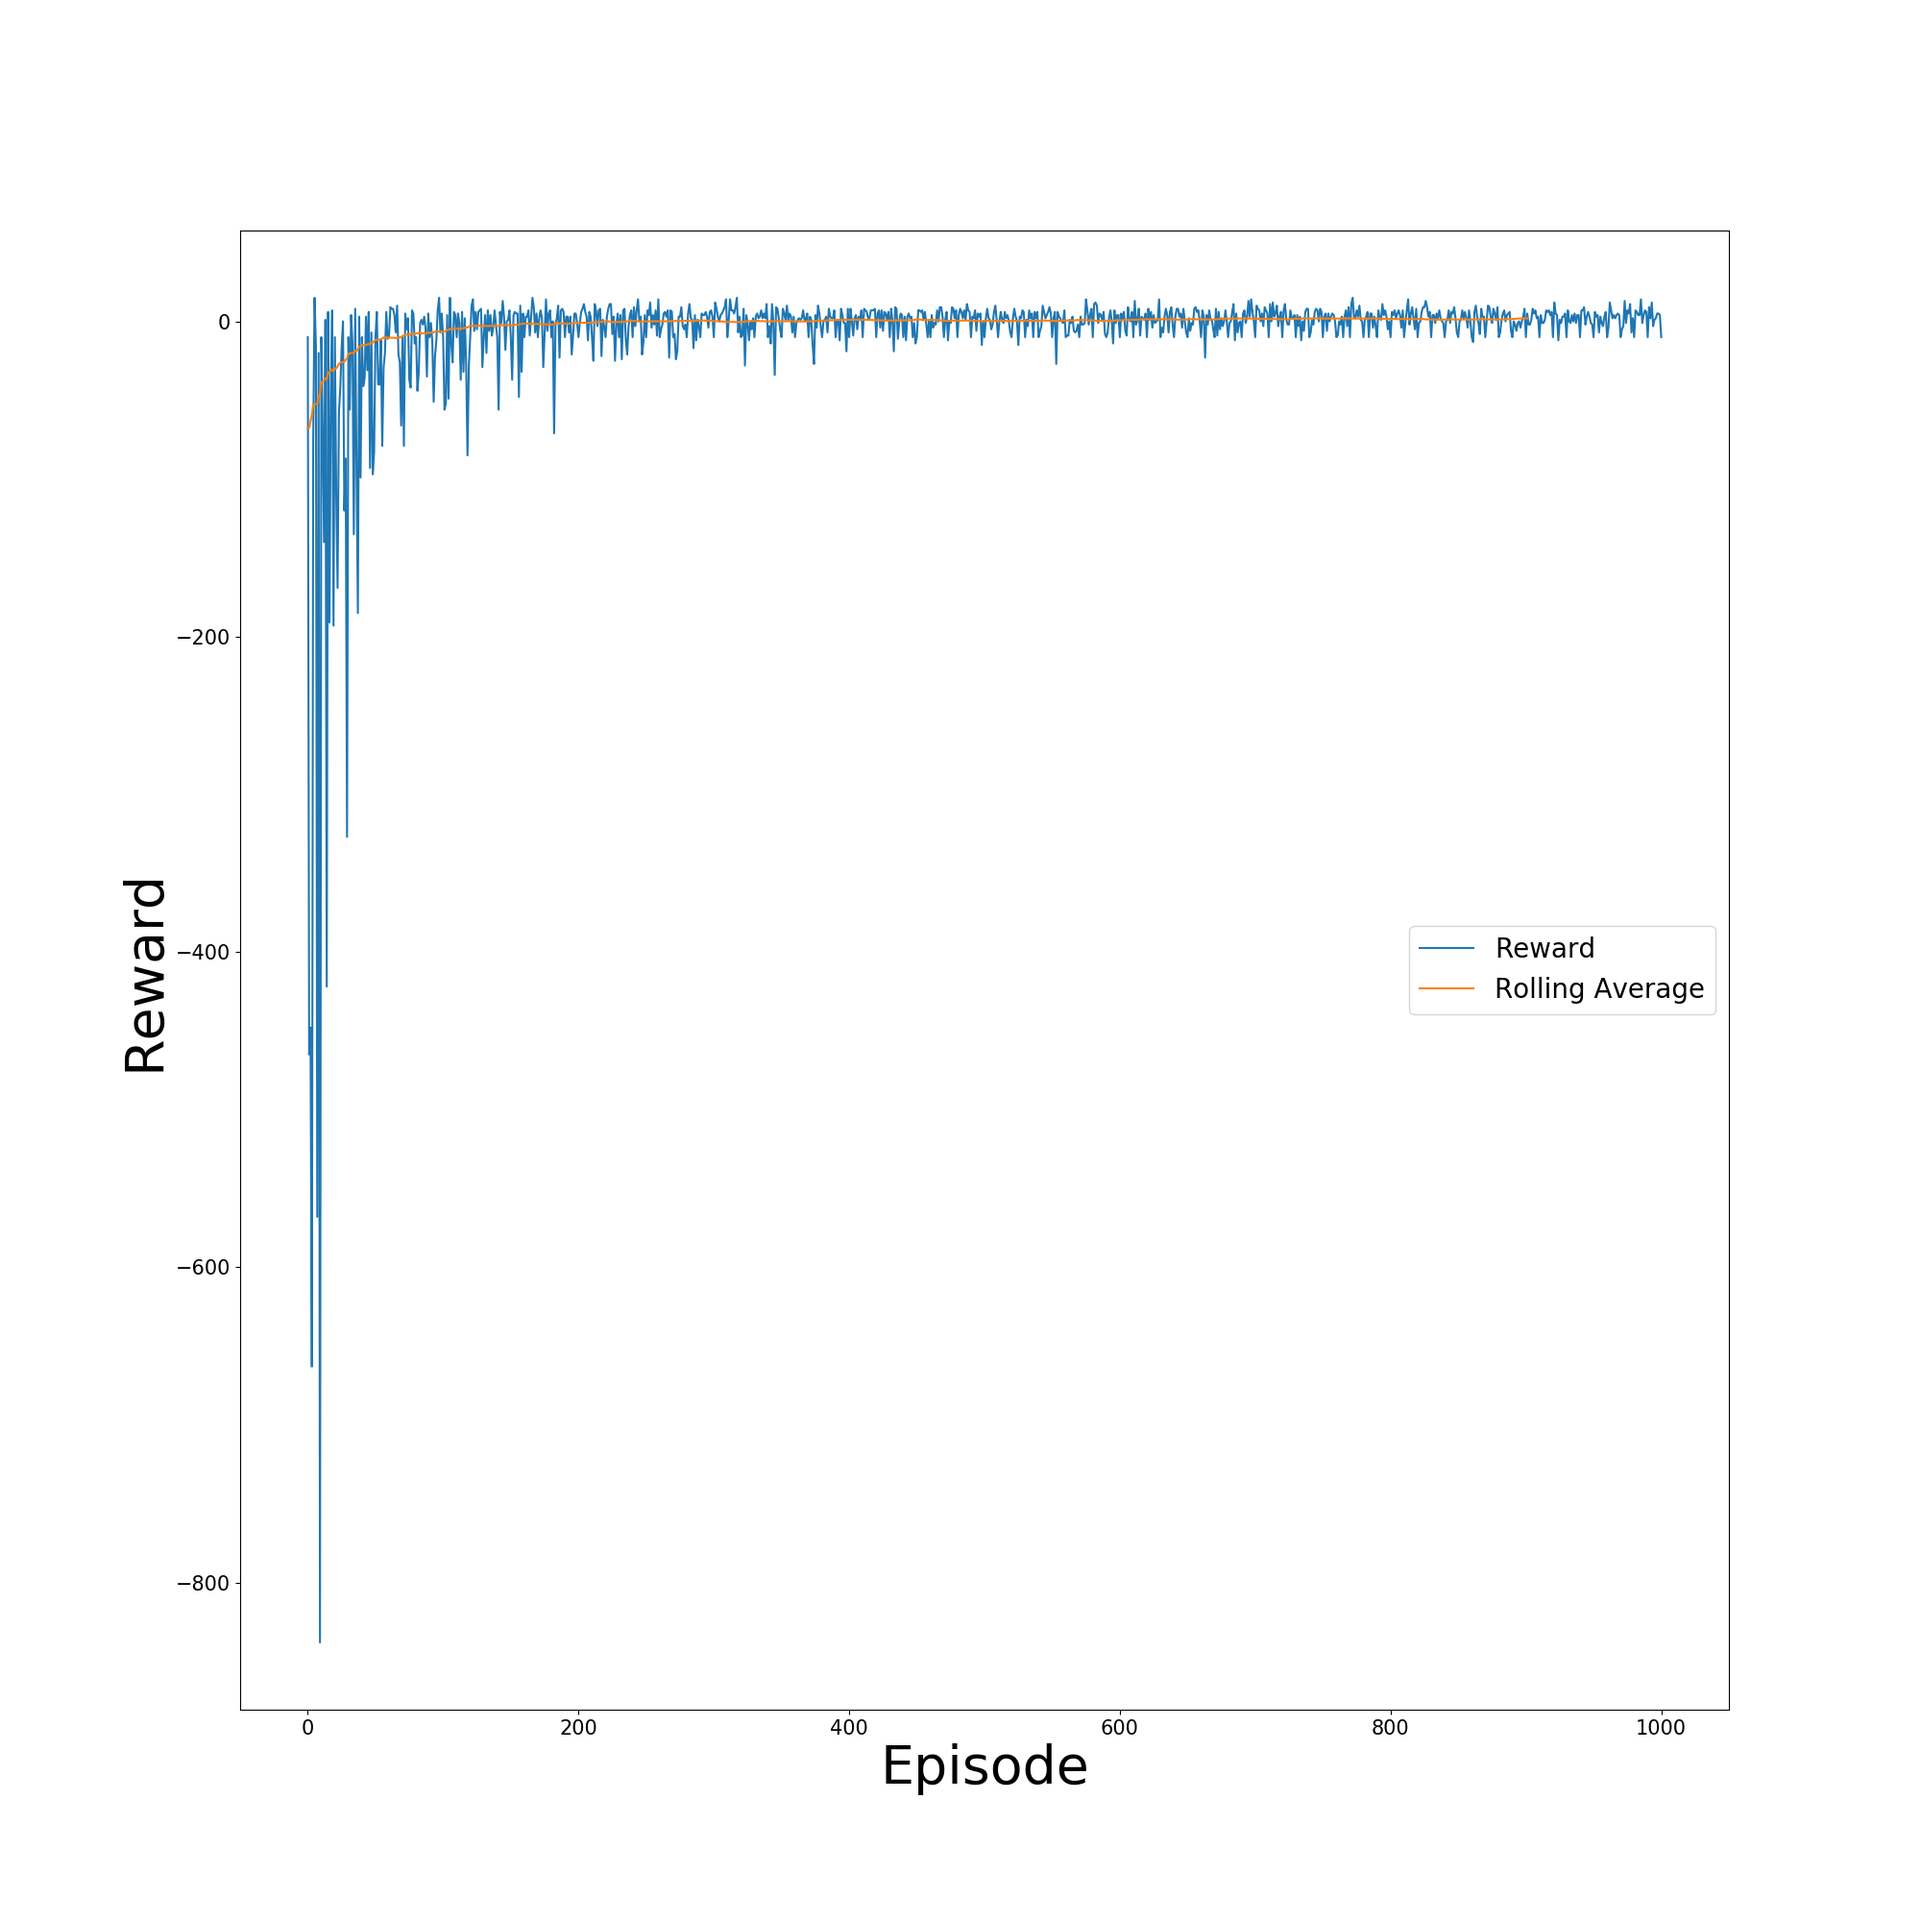
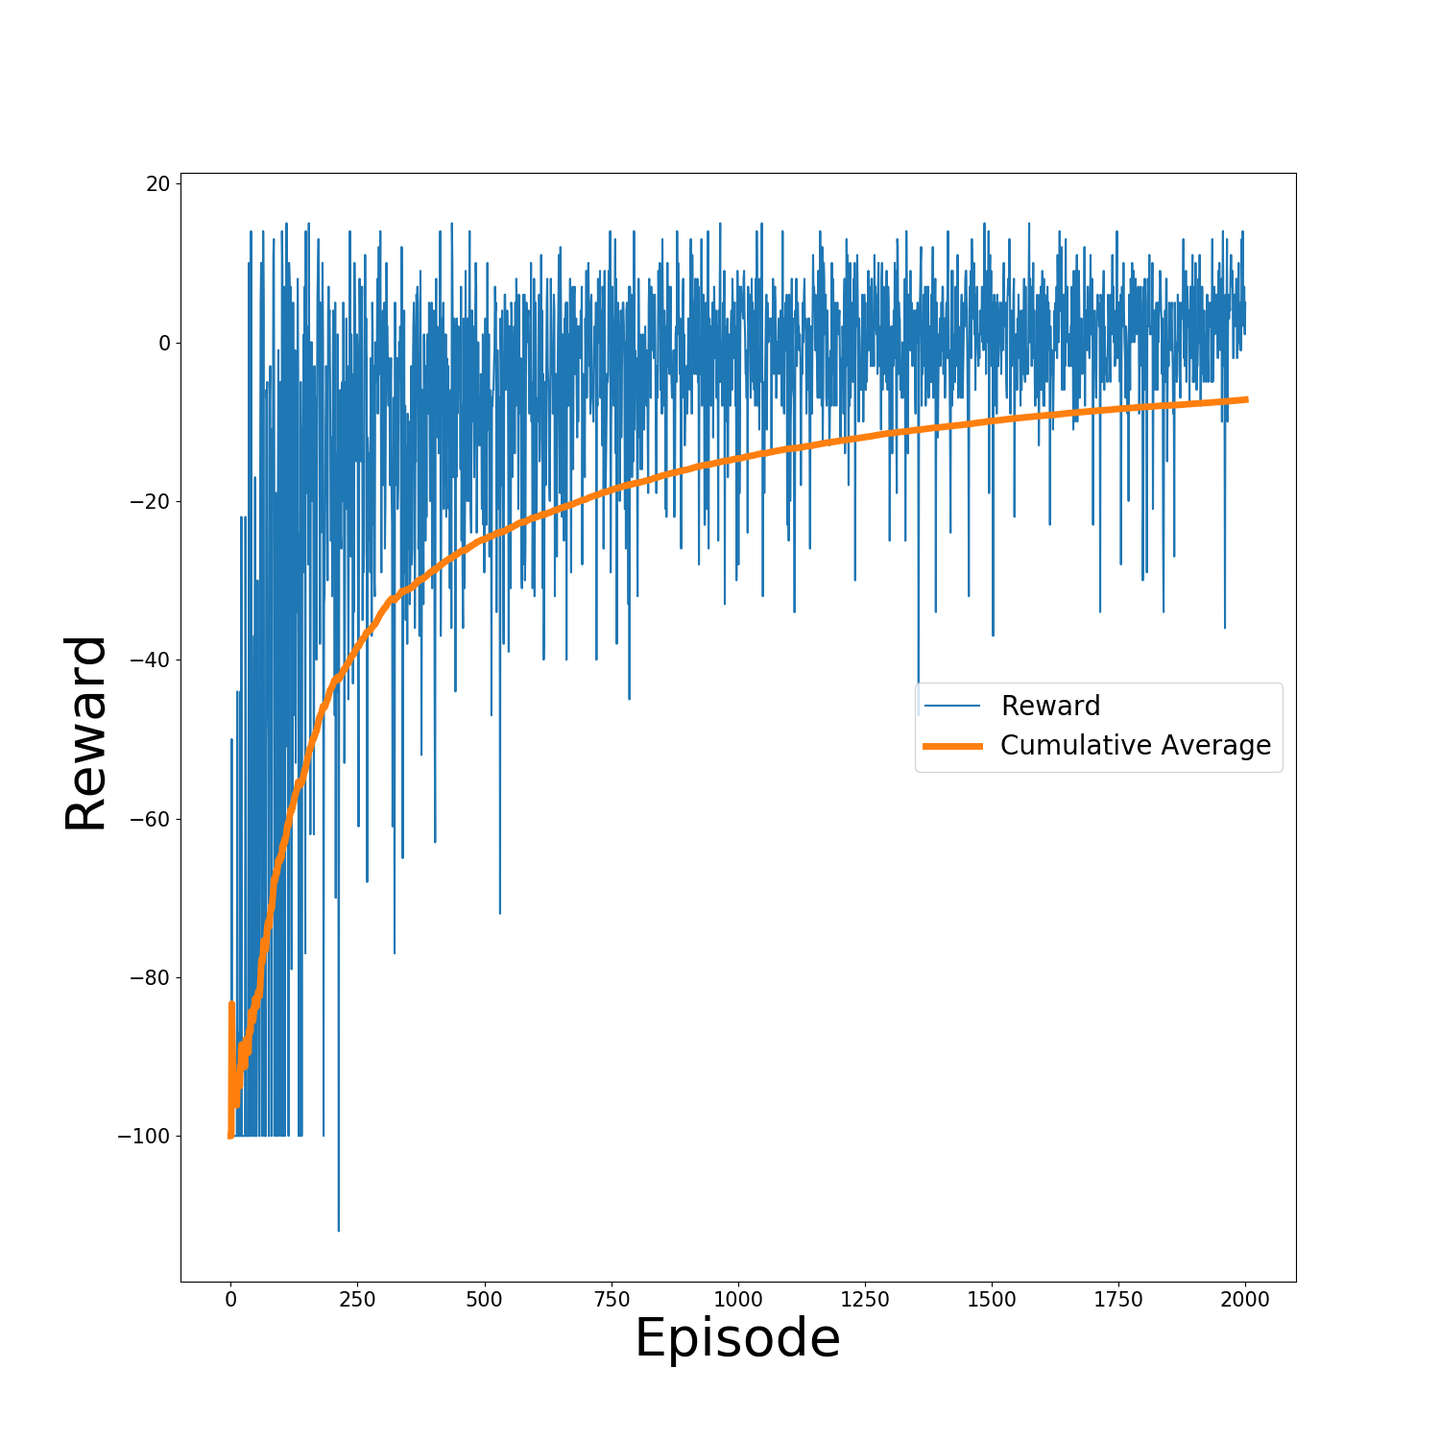
final commits for plots I hope

diff --git a/Bilbo World/Bilbo_q_learning.py b/Bilbo World/Bilbo_q_learning.py
@@ -15,14 +15,14 @@ d = {TREASURE_CHAR: '16',
 
 alpha = 0.5
 gamma = 0.8
-epsilon = 0.2
-decay_epsilon = 0.99
+epsilon = 0.5
+decay_epsilon = 0.999
 MIN_EPSILON = 0.01
 
 
 #In case of 15x15
-TOT_EPISODES = 1001
-MAX_EPOCH = 1000
+TOT_EPISODES = 2001
+MAX_EPOCH = 100
 
 # In case of 20x20
 #TOT_EPISODES = 10000
@@ -74,9 +74,9 @@ for ep in range(TOT_EPISODES):
     game_ended = False
     epoch = 0
     tot_reward = 0
-    if ep % 10 == 0:
-        a = plt.imshow(render_world(mondo.world,WORLD_DIM,q_table,ep), animated=True)
-        policy.append((a,))
+    #if ep % 10 == 0:
+        #a = plt.imshow(render_world(mondo.world,WORLD_DIM,q_table,ep), animated=True)
+        #policy.append((a,))
     while not game_ended and epoch < MAX_EPOCH:
       #the near it gets to the dragon the more random the movement
         epoch += 1
@@ -116,40 +116,41 @@ for ep in range(TOT_EPISODES):
     tot_wins.append(win)
     tot_loss.append(loss)
 
-    print("episode:{0:5}, epoch used:{1:4} [{2:10}]{3:3}%".format(ep,epoch,'#'*(round(ep*10/TOT_EPISODES)+1),round((ep+1)*100/TOT_EPISODES)))
+    print("episode:{0:5}, epoch used:{1:4} [{2:10}]{3:3}%".format(ep,epoch,'#'*(round(ep*10/TOT_EPISODES)+1),round((ep+1)*100/TOT_EPISODES)), end='\r')
 
 print('')
-np.save(file_name, q_table)
+#np.save(file_name, q_table)
 
 #policy video
-ani = animation.ArtistAnimation(fig, policy, interval=1, blit=True, repeat_delay=1000)
-writer = animation.FFMpegWriter(fps=25)
-plt.axis('off')
-ani.save('./videos/policy_video_'+str(WORLD_DIM)+'.mp4', writer=writer)
+#ani = animation.ArtistAnimation(fig, policy, interval=1, blit=True, repeat_delay=1000)
+#writer = animation.FFMpegWriter(fps=25)
+#plt.axis('off')
+#ani.save('./videos/policy_video_'+str(WORLD_DIM)+'.mp4', writer=writer)
 plt.axis('on')
 
 plt.rc('xtick', labelsize=15)    # fontsize of the tick labels
 plt.rc('ytick', labelsize=15)
 def cumsum_sma(array, period):
     ret = np.cumsum(array, dtype=float)
-    ret[period:] = ret[period:] - ret[:-period]
-    return ret[period - 1:] / period
+    #ret[period:] = ret[period:] - ret[:-period]
+    ones = np.array(range(1, len(array)+1))
+    return ret / ones
 
 #plot for Reward
-fig = plt.figure(figsize=(20, 20))
+fig = plt.figure(figsize=(15, 15))
 reward, = plt.plot(rewards)
-ra_reward, = plt.plot(cumsum_sma(rewards, 100))
-plt.legend([reward, ra_reward], ['Reward', 'Rolling Average'], loc=5, prop={'size': 20})
+ra_reward, = plt.plot(cumsum_sma(rewards, 10),  linewidth=5)
+plt.legend([reward, ra_reward], ['Reward', 'Cumulative Average'], loc=5, prop={'size': 20})
 plt.xlabel('Episode', fontsize=40)
 plt.ylabel('Reward', fontsize=40)
 fig.savefig('./plots/reward_'+str(WORLD_DIM)+'.png')
 
 
 #Plot for epoch required
-fig = plt.figure(figsize=(20, 20))
+fig = plt.figure(figsize=(15, 15))
 reward, = plt.plot(epochs)
-ra_reward, = plt.plot(cumsum_sma(epochs, 100))
-plt.legend([reward, ra_reward], ['Epochs', 'Rolling Average'], loc=5, prop={'size': 20})
+ra_reward, = plt.plot(cumsum_sma(epochs, 100),  linewidth=5)
+plt.legend([reward, ra_reward], ['Epochs', 'Cumulative Average'], loc=5, prop={'size': 20})
 plt.xlabel('Episodes', fontsize=40)
 plt.ylabel('Epochs', fontsize=40)
 fig.savefig('./plots/epoch_'+str(WORLD_DIM)+'.png')

diff --git a/Bilbo World/CreateBilboWorld.py b/Bilbo World/CreateBilboWorld.py
@@ -4,13 +4,13 @@ from PIL import Image
 from agents import *
 
 DRAGON_CHAR = '☠'
-DRAGON_PENALTY = 5
+DRAGON_PENALTY = 15
 TREASURE_CHAR = '♚'
-TREASURE_REWARD = 10
+TREASURE_REWARD = 15
 PLAYER_CHAR = '☺'
 OBSTACLE_CHAR = "█"
 OBSTACLE_CONST = 0.12
-OBSTACLE_PENALTY = 1
+OBSTACLE_PENALTY = 5
 
 WALKING_PENALTY = 1
 TOO_MUCH_WALK_PENALTY = 49
